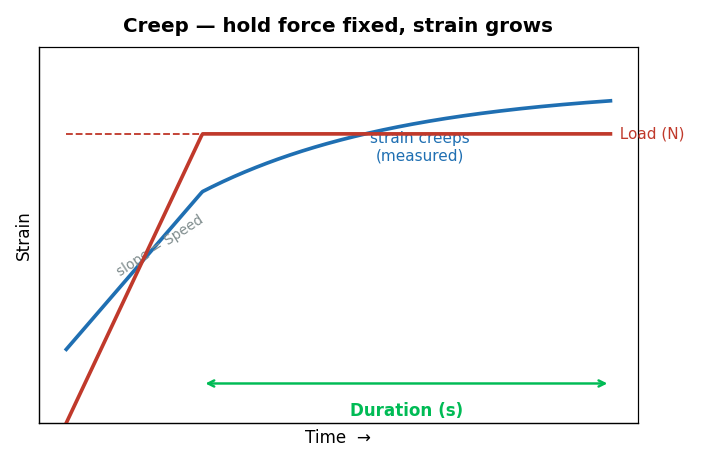
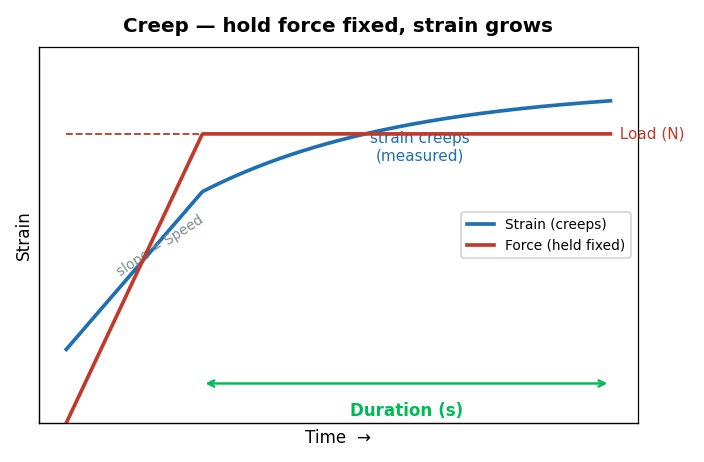
Mode-help diagrams: add legends (limits shown in the help dialog)
Each schematic now carries a legend; the help dialog lists the per-mode
input limits + the always-on safety backstops under the graph. (Enable
checkbox that greys the segment + the dialog text live in unversioned main.py.)

Changed region(s): [[0.6562, 0.4545, 0.9062, 0.5758]]

diff --git a/Software/UTM_PyQt6/generate_mode_help.py b/Software/UTM_PyQt6/generate_mode_help.py
@@ -47,9 +47,10 @@ def cyclic():
     t = 0
     for _ in range(ncyc):
         xs += [t + 1, t + 2]; ys += [hi, lo]; t += 2
-    ax.plot(xs, ys, color=RED, lw=2.4)
+    ax.plot(xs, ys, color=RED, lw=2.4, label="Crosshead force")
     _hline(ax, hi, 0, t, "High  (N)", RED)
     _hline(ax, lo, 0, t, "Low  (N)", BLUE)
+    ax.legend(loc="lower right", fontsize=9, framealpha=0.9)
     # one cycle bracket
     ax.annotate("", xy=(0, hi + 0.5), xytext=(2, hi + 0.5),
                 arrowprops=dict(arrowstyle="<->", color="#0b5", lw=1.6))
@@ -72,7 +73,8 @@ def staircase():
         lvl = start + i * step
         x += ramp; xs.append(x); ys.append(lvl)      # ramp up
         x += dwell; xs.append(x); ys.append(lvl)      # dwell (flat)
-    ax.plot(xs, ys, color=RED, lw=2.4)
+    ax.plot(xs, ys, color=RED, lw=2.4, label="Crosshead force")
+    ax.legend(loc="upper left", fontsize=9, framealpha=0.9)
     # Start level
     _hline(ax, start, 0, xs[-1], "", BLUE)
     ax.annotate("Start (N)", xy=(0.05, start), xytext=(0.1, start + 0.3),
@@ -101,9 +103,11 @@ def relaxation():
     T = np.linspace(0, 8, 400)
     eps = np.where(T < tr, (T / tr), 1.0)                          # strain: ramp then flat
     F = np.where(T < tr, (T / tr), np.exp(-(T - tr) / 2.5))        # force: rise then decay
-    ax.plot(T, eps, color=BLUE, lw=2.4, label="Strain  (held)")
-    ax2 = ax.twinx(); ax2.plot(T, F, color=RED, lw=2.4, label="Force  (relaxes)")
+    ax.plot(T, eps, color=BLUE, lw=2.4, label="Strain (held fixed)")
+    ax2 = ax.twinx(); ax2.plot(T, F, color=RED, lw=2.4, label="Force (relaxes)")
     ax2.set_yticks([])
+    l1, la1 = ax.get_legend_handles_labels(); l2, la2 = ax2.get_legend_handles_labels()
+    ax.legend(l1 + l2, la1 + la2, loc="upper right", fontsize=9, framealpha=0.9)
     _hline(ax, 1.0, 0, 8, "Hold strain", BLUE)
     # Duration bracket over the hold
     ax.annotate("", xy=(tr, -0.13), xytext=(8, -0.13),
@@ -124,9 +128,11 @@ def creep():
     F = np.where(T < tr, (T / tr), 1.0)                                   # force: ramp then flat
     eps = np.where(T < tr, (T / tr) * 0.6, 0.6 + 0.4 * (1 - np.exp(-(T - tr) / 3.0)))  # strain creeps up
     ax.plot(T, eps, color=BLUE, lw=2.4, label="Strain (creeps)")
-    ax2 = ax.twinx(); ax2.plot(T, F, color=RED, lw=2.4)
+    ax2 = ax.twinx(); ax2.plot(T, F, color=RED, lw=2.4, label="Force (held fixed)")
     ax2.set_ylim(0, 1.3); ax2.set_yticks([])
     ax2.plot([0, 8], [1.0, 1.0], "--", color=RED, lw=1.2)
+    l1, la1 = ax.get_legend_handles_labels(); l2, la2 = ax2.get_legend_handles_labels()
+    ax.legend(l1 + l2, la1 + la2, loc="center right", fontsize=9, framealpha=0.9)
     ax2.text(8, 1.0, "  Load (N)", va="center", color=RED, fontsize=10)
     ax.annotate("", xy=(tr, -0.13), xytext=(8, -0.13),
                 arrowprops=dict(arrowstyle="<->", color="#0b5", lw=1.6))
